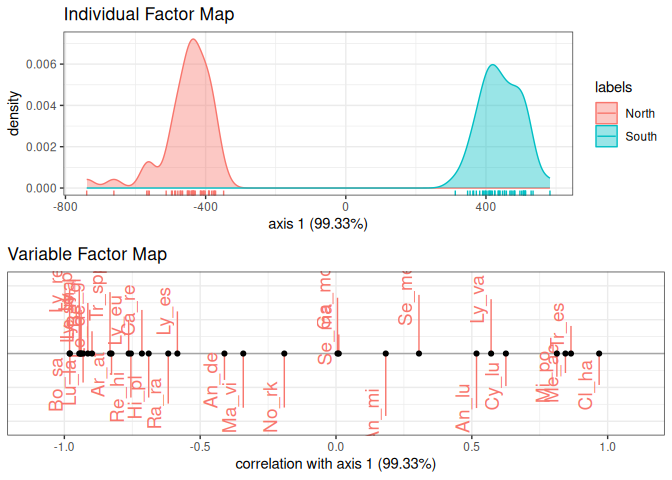
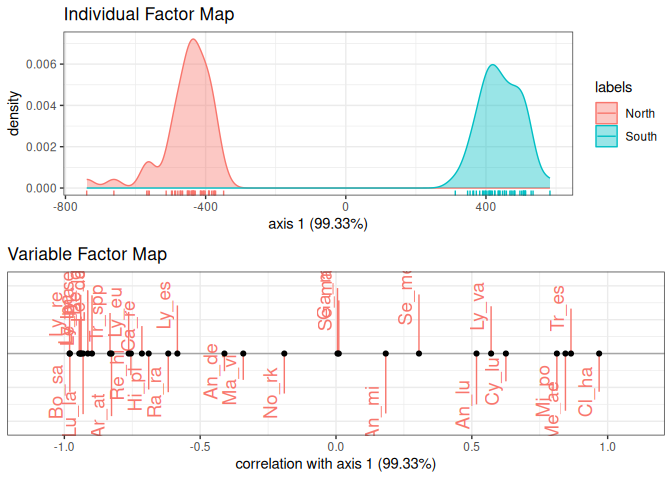
adapted vignettes and examples

diff --git a/README.md b/README.md
@@ -72,7 +72,7 @@ geographic coordinates for each site.
 library(PLNmodels)
 ```
 
-    This is package 'PLNmodels' version 1.3.2
+    This is package 'PLNmodels' version 1.3.2.9500
 
 ``` r
 data(barents)
@@ -164,36 +164,36 @@ myNets <- PLNnetwork(Abundance ~ Depth + Temperature + offset(log(Offset)), data
      Initialization...
      Adjusting 30 PLN with sparse inverse covariance estimation
         Joint optimization alternating gradient descent and graphical-lasso
-        sparsifying penalty = 3.77829 
-        sparsifying penalty = 3.489896 
-        sparsifying penalty = 3.223515 
-        sparsifying penalty = 2.977467 
-        sparsifying penalty = 2.7502 
-        sparsifying penalty = 2.540279 
-        sparsifying penalty = 2.346382 
-        sparsifying penalty = 2.167285 
-        sparsifying penalty = 2.001858 
-        sparsifying penalty = 1.849058 
-        sparsifying penalty = 1.707921 
-        sparsifying penalty = 1.577557 
-        sparsifying penalty = 1.457143 
-        sparsifying penalty = 1.345921 
-        sparsifying penalty = 1.243188 
-        sparsifying penalty = 1.148296 
-        sparsifying penalty = 1.060648 
-        sparsifying penalty = 0.9796893 
-        sparsifying penalty = 0.9049105 
-        sparsifying penalty = 0.8358394 
-        sparsifying penalty = 0.7720405 
-        sparsifying penalty = 0.7131113 
-        sparsifying penalty = 0.6586802 
-        sparsifying penalty = 0.6084037 
-        sparsifying penalty = 0.5619647 
-        sparsifying penalty = 0.5190704 
-        sparsifying penalty = 0.4794502 
-        sparsifying penalty = 0.4428542 
-        sparsifying penalty = 0.4090515 
-        sparsifying penalty = 0.377829 
+        sparsifying penalty = 0.5329204 
+        sparsifying penalty = 0.492243 
+        sparsifying penalty = 0.4546705 
+        sparsifying penalty = 0.4199659 
+        sparsifying penalty = 0.3879103 
+        sparsifying penalty = 0.3583014 
+        sparsifying penalty = 0.3309526 
+        sparsifying penalty = 0.3056912 
+        sparsifying penalty = 0.2823581 
+        sparsifying penalty = 0.2608059 
+        sparsifying penalty = 0.2408988 
+        sparsifying penalty = 0.2225112 
+        sparsifying penalty = 0.2055272 
+        sparsifying penalty = 0.1898394 
+        sparsifying penalty = 0.1753492 
+        sparsifying penalty = 0.1619649 
+        sparsifying penalty = 0.1496023 
+        sparsifying penalty = 0.1381833 
+        sparsifying penalty = 0.1276358 
+        sparsifying penalty = 0.1178935 
+        sparsifying penalty = 0.1088948 
+        sparsifying penalty = 0.100583 
+        sparsifying penalty = 0.09290554 
+        sparsifying penalty = 0.08581414 
+        sparsifying penalty = 0.07926402 
+        sparsifying penalty = 0.07321387 
+        sparsifying penalty = 0.06762551 
+        sparsifying penalty = 0.06246372 
+        sparsifying penalty = 0.05769591 
+        sparsifying penalty = 0.05329204 
      Post-treatments
      DONE!
 
@@ -233,10 +233,10 @@ table(cluster = myMixture$memberships, zone = barents$zone)
 
            zone
     cluster North South
-          1     1    17
-          2    11     0
-          3    21     6
-          4    11    22
+          1     1    21
+          2    11    18
+          3    11     0
+          4    21     6
 
 ## References
 
